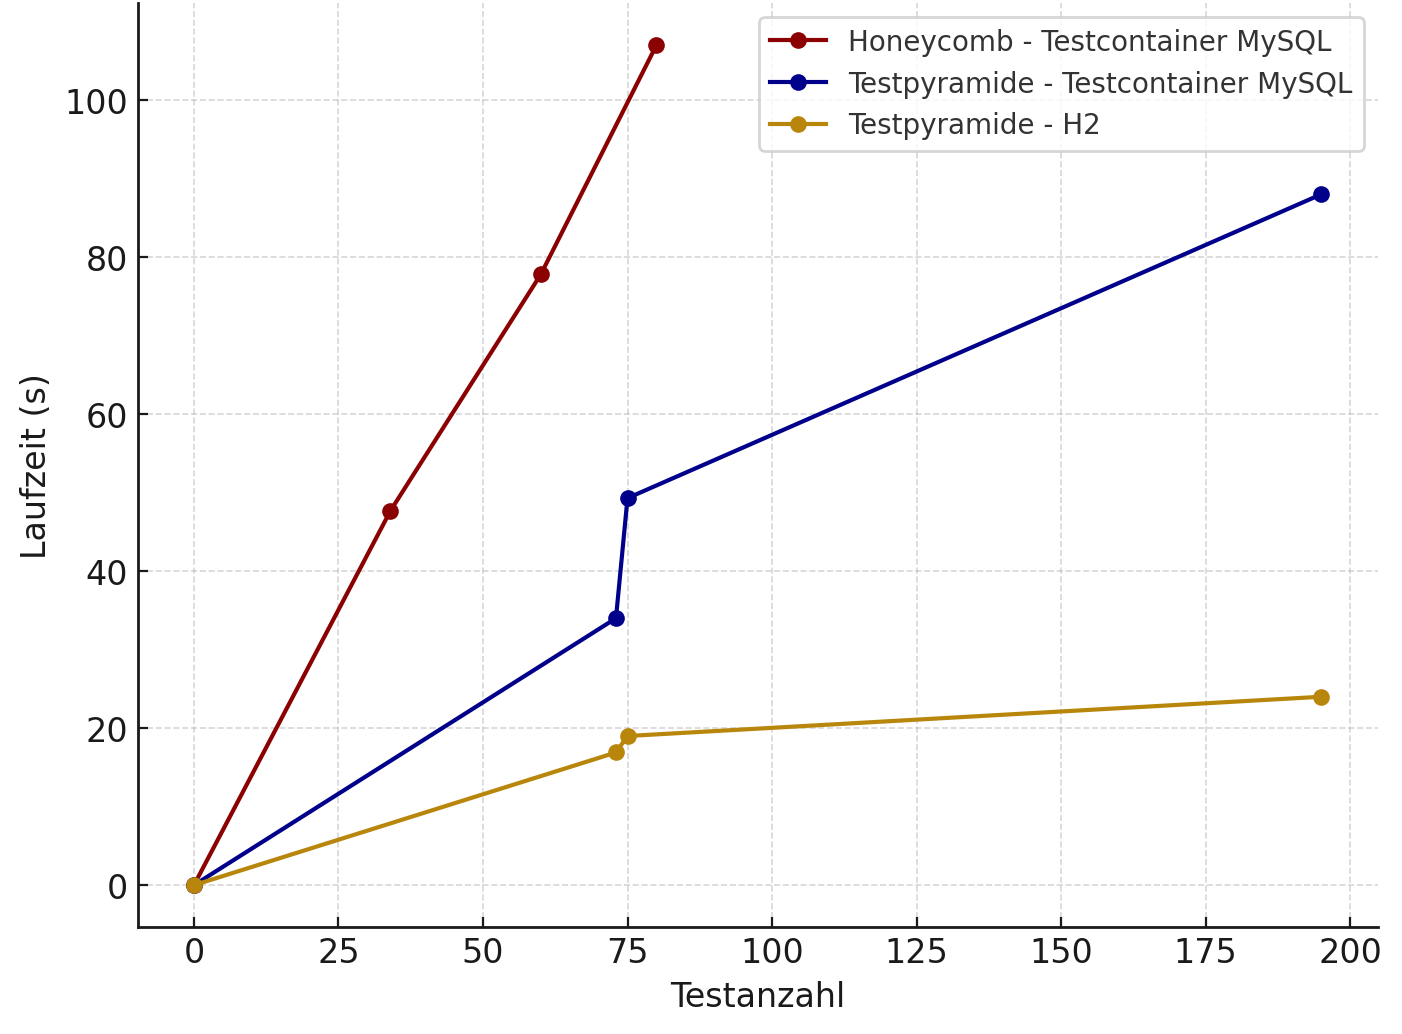
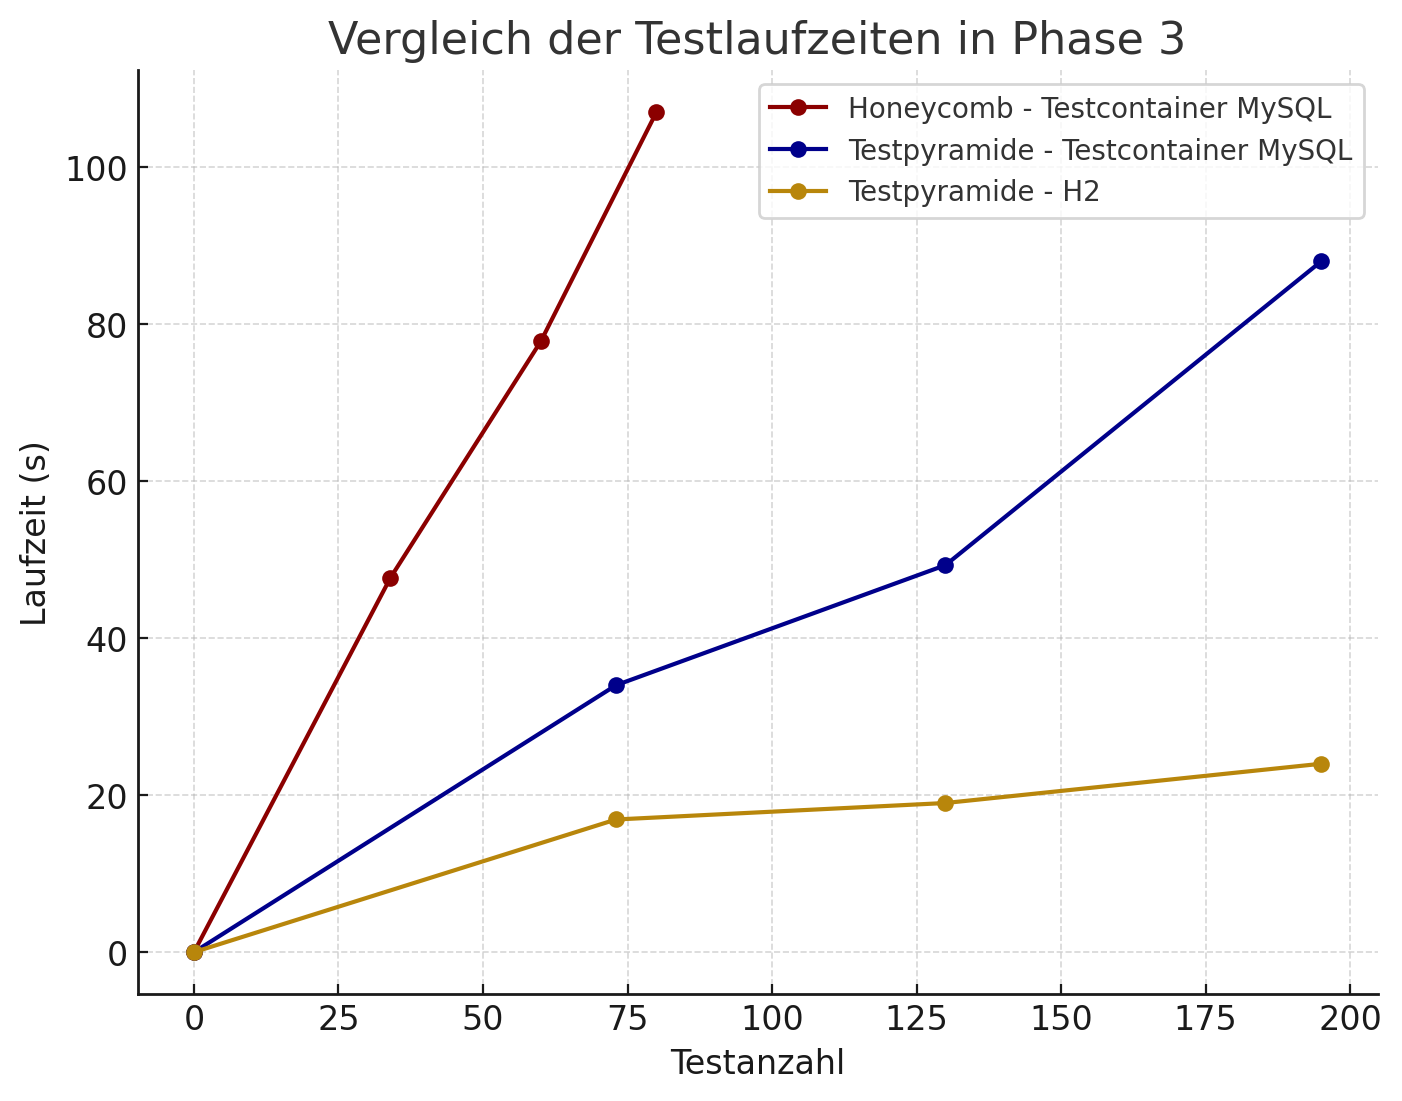
[bachelorarbeit] phase 2 und graphen

diff --git a/bachelorarbeit/ergebnis.tex b/bachelorarbeit/ergebnis.tex
@@ -1,11 +1,11 @@
 \section{Ergebnisse und Interpretation}
-Hier beginnt der Abschnitt wo die Laufzeiten zwischen den Teststrategien gemessen werden in drei Phasen wie in der Methodik beschrieben.
+Hier beginnt der Abschnitt wo die Laufzeiten zwischen den Teststrategien gemessen werden in drei Phasen wie in der Methodik beschrieben. Um eine einheitliche Darstellung der Ergebnisse zu gewährleisten, werden die Messwerte in Tabellenform präsentiert. Jede Tabelle enthält die verwendete Teststrategie, die eingesetzte Datenbank, die Anzahl der durchgeführten Tests, die Anzahl der Unit-Tests innerhalb der Testpyramide und die durchschnittliche Laufzeit über zehn Durchläufe hinweg. 
 %%%%%%%%%%%%%%%%%%%%%%%%%%%%%%%%%%%%%%%%%%%%%%%%%%%%%%%%%%%%%%%%%%%%%
 \subsection{Phase eins - Business Case-spezifische Testergebnisse}
 In dieser Phase werden die Testergebnisse für die drei zentralen Geschäftsprozesse der Anwendung untersucht: Bewerbungsprozess, Vertragsmanagement und Veranstaltungsmanagement. Diese Anwendungsfälle wurden bereits in den vorherigen Kapiteln beschrieben und bilden die Grundlage für die Untersuchung der beiden Teststrategien.
 
-Um eine einheitliche Darstellung der Ergebnisse zu gewährleisten, werden die Messwerte in Tabellenform präsentiert. Jede Tabelle enthält die verwendete Teststrategie, die eingesetzte Datenbank, die Anzahl der durchgeführten Tests, die Anzahl der Unit-Tests innerhalb der Testpyramide und die durchschnittliche Laufzeit über zehn Durchläufe hinweg. Während das Honeycomb-Modell ausschließlich Integrationstests durchführt, kombiniert die Testpyramide sowohl Unit- als auch Integrationstests, wobei je nach Konfiguration entweder die In-Memory-Datenbank H2 oder eine MySQL-Datenbank mit Testcontainers verwendet wird.
-Die folgende Tabelle zeigt die Ergebnisse für den Bewerbungsprozess.
+
+Die folgende \autoref{tab:bewerbung_updated_first} zeigt die Ergebnisse für den Bewerbungsprozess.
 \begin{table}[H]
 	\centering
 	\begin{tabular}{|l|l|l|l|l|}
@@ -62,20 +62,18 @@ Die folgende Tabelle zeigt die Ergebnisse für den Bewerbungsprozess.
 \subsubsection{Analyse der Testkomplexität und ihrer Auswirkungen}
 Die folgende Analyse betrachtet die Testergebnisse aus den Tabellen und zeigt, welche Faktoren die Testlaufzeit beeinflussen. Die Anzahl der Tests und die Laufzeit allein reichen nicht aus, um den Aufwand eines Business Cases zu bestimmen. Eine genauere Bewertung erfordert die Berücksichtigung mehrerer Aspekte, darunter die Struktur der Geschäftsprozesse, die Anzahl der Prüfungen und die Abhängigkeiten zwischen den Features.
 
-Die Testpyramide weist in \autoref{tab:bewerbung_updated_first} mit 73 Tests die höchste Testanzahl auf , was auf Statusänderungen innerhalb des Bewerbungsprozesses zurückzuführen ist. Besonders die Verwaltung von Bewerbungen, Ablehnen und Annehmen der Bewerbungen. Die Laufzeiten zeigen, dass Tests mit H2 schneller ausgeführt werden als mit Testcontainers 34 Sekunden. Das Honeycomb-Modell testet mit nur 34 Tests das gesamte System, benötigt jedoch mit 47,7 Sekunden deutlich mehr Zeit.
-Im Vertragsmanagement in \autoref{tab:vertrag_einzeln} sind weniger Tests erforderlich als im Bewerbungsprozess, dennoch sind die Laufzeiten vergleichbar. Die enge Verknüpfung mit dem Bewerbungsprozess führt zu häufigen Datenbankzugriffen und Prüfungen. Diese Funktion ist von den Ergebnissen nah an dem Bewerbungsmanagement, da aus einer angenommenen Bewerbung ein Vertrag erstellt werden kann.
-Im Veranstaltungsmanagement in \autoref{tab:eventbereich_einzeln} zeigt die Testpyramide 61 und das Honeycomb-Modell 19 Tests. Die Laufzeiten bleiben jedoch relativ hoch, was auf Datenbankoperationen und Verknüpfungen zwischen Entitäten hinweist.
+Die Testpyramide weist in \autoref{tab:bewerbung_updated_first} mit 73 Tests die höchste Testanzahl auf, was auf Statusänderungen innerhalb des Bewerbungsprozesses zurückzuführen ist. Besonders die Verwaltung von Bewerbungen und das Ablehnen oder Annehmen der Bewerbungen. Die Laufzeiten zeigen, dass Tests mit H2 schneller ausgeführt werden als mit Testcontainers mit 34 Sekunden. Das Honeycomb-Modell testet mit nur 34 Tests das gesamte System, benötigt jedoch mit 47,7 Sekunden deutlich mehr Zeit.
+Im Vertragsmanagement in \autoref{tab:vertrag_einzeln} sind etwas weniger Tests erforderlich als im Bewerbungsprozess, dennoch sind die Laufzeiten vergleichbar. Die enge Verknüpfung mit dem Bewerbungsprozess führt zu häufigen Datenbankzugriffen und Prüfungen. Diese Funktion ist von den Ergebnissen nah an dem Bewerbungsmanagement, da aus einer angenommenen Bewerbung ein Vertrag erstellt werden kann.
+Im Veranstaltungsmanagement in \autoref{tab:eventbereich_einzeln} führt die Testpyramide 61 und das Honeycomb-Modell 19 Tests durch. Die Laufzeiten bleiben jedoch relativ hoch, was auf Datenbankoperationen und Verknüpfungen zwischen Entitäten hinweist.
 
 Auffällig ist, dass die Anzahl der Unit-Tests innerhalb der Testpyramide vergleichsweise gering ist. Dies könnte darauf zurückzuführen sein, dass die Geschäftslogik der betrachteten Anwendungsfälle nicht besonders umfangreich ist und weniger verschiedene Prüfungen benötigt. Die Funktionalität ist klar definiert und enthält keine komplexen Abhängigkeiten, wodurch auch der Bedarf an zusätzlichen Tests geringer ausfällt.
-
-Die Wahl der Teststrategie bestimmt, welche Aspekte eines Business Cases stärker sichtbar werden. Die Testpyramide ermöglicht eine detaillierte Überprüfung einzelner Geschäftsregeln durch isolierte Tests. Das Honeycomb-Modell hingegen deckt Abhängigkeiten zwischen den Prozessen auf und zeigt, welche Bereiche besonders lange Laufzeiten verursachen.
 
 Die kommenden Abschnitte untersuchen, wie sich diese Unterschiede mit wachsender Funktionalität weiterentwickeln.
 
 
 %%%%%%%%%%%%%%%%%%%%%%%%%%%%%%%%%%%%%%%%%%%%%%%%%%%%%%%%%%%%%%%%%%%%%
 \subsection{Phase zwei – Erste Implementierung und Teststrategie ohne Authentifizierung}
-In dieser Phase werden die Testergebnisse vor der Integration von Spring Security analysiert. Sie dienen als Grundlage, um später die Auswirkungen der Authentifizierung auf die Teststrategien zu vergleichen. Die Tests wurden schrittweise erweitert und angepasst, wodurch eine stabile Testbasis entstand. Die Ergebnisse sind in Tabellen dargestellt, die wie in Phase eins die Teststrategie, die eingesetzte Datenbank, die Anzahl der Tests, die Anzahl der Unit-Tests innerhalb der Testpyramide und die durchschnittliche Laufzeit über zehn Durchläufe hinweg enthalten. Diese Tabellen zeigen, wie sich die Testlaufzeiten und die Anzahl der Tests in Abhängigkeit von der Teststrategie und der Datenbank verhalten. Im Fazit dieser Phase werden die Ergebnisse ausgewertet und mit den Messungen nach der Security-Integration verglichen.
+  Die Ergebnisse sind in Tabellen dargestellt, die wie in Phase eins die Teststrategie, die eingesetzte Datenbank, die Anzahl der Tests, die Anzahl der Unit-Tests innerhalb der Testpyramide und die durchschnittliche Laufzeit über zehn Durchläufe hinweg enthalten. Diese Tabellen zeigen, wie sich die Testlaufzeiten und die Anzahl der Tests in Abhängigkeit von der Teststrategie und der Datenbank verhalten. Im Fazit dieser Phase werden die Ergebnisse ausgewertet und mit den Messungen nach der Security-Integration verglichen.
 
 
 \begin{table}[H]
@@ -131,12 +129,12 @@ In dieser Phase werden die Testergebnisse vor der Integration von Spring Securit
 		\label{tab:eventmanagement}
 \end{table}
 \subsubsection{Fazit zur zweiten Phase}
-Die zweite Testphase zeigt Veränderungen in der Teststruktur und Performance im Verlauf der Feature-Entwicklung. Mit jedem neu hinzugefügten Feature stieg die Anzahl der Tests sowie die Laufzeit der Testausführungen. Besonders beim \textbf{Vertragsmanagement} zeigte sich eine enge Abhängigkeit zum Bewerbungsprozess, da Verträge erst aus bestehenden Bewerbungen generiert werden können. Dies führte zu einer erhöhten Anzahl an Datenbankabfragen und verlängerte die Testlaufzeiten, insbesondere bei der Nutzung des Honeycomb-Modells.
+Die \autoref{fig:phase-zwei} zeigt Veränderungen in der Teststruktur und Performance im Verlauf der Feature-Entwicklung. Mit jedem neu hinzugefügten Feature stieg die Anzahl der Tests sowie die Laufzeit der Testausführungen. Besonders beim \textbf{Vertragsmanagement} zeigte sich eine enge Abhängigkeit zum Bewerbungsprozess, da Verträge erst aus bestehenden Bewerbungen generiert werden können. Dies führte zu einer erhöhten Anzahl an Datenbankabfragen und verlängerte die Testlaufzeiten, insbesondere bei der Nutzung des Honeycomb-Modells.
 
 
 \begin{figure}[H]
 	\centering
-	\includegraphics[width=0.8\textwidth]{fig/phase-zwei.png}
+	\includegraphics[width=0.8\textwidth]{fig/phase-zweii.png}
 	\caption{Vergleich der Testlaufzeiten in Phase zwei}
 	\label{fig:phase-zwei}
 \end{figure}
@@ -164,9 +162,9 @@ Da in Phase eins die einzelnen Businessfälle bereits vollständig implementiert
 		\hline
 		Honeycomb       & Testcontainer MySQL & 60  & --  & 77\,s 777\,ms   \\
 		\hline
-		Testpyramide    & Testcontainer MySQL & 75  & 25  & 49\,s 333\,ms    \\
+		Testpyramide    & Testcontainer MySQL & 130  & 55  & 49\,s 333\,ms    \\
 		\hline
-		Testpyramide    & H2                  & 75  & 25  & 19\,s \\
+		Testpyramide    & H2                  & 130  & 55  & 19\,s \\
 		\hline
 	\end{tabular}
 	\caption{Phase drei - Bewerbungs- und Vertragsmanagement}
@@ -213,7 +211,7 @@ Wie bereits in Phase 2 beobachtet, bleibt H2 die schnellere Lösung mit nur leic
 
 \begin{figure}[H]
 	\centering
-	\includegraphics[width=0.8\textwidth]{fig/phase-drei.png}
+	\includegraphics[width=0.8\textwidth]{fig/phase-dreii.png}
 	\caption{Vergleich der Testlaufzeiten in Phase drei}
 	\label{fig:phase-drei}
 \end{figure}

diff --git a/bachelorarbeit/methodik.tex b/bachelorarbeit/methodik.tex
@@ -24,18 +24,25 @@ Für das Mutationstesting wird \texttt{PITest} verwendet. \texttt{Parallel Isola
 Die Wahl der Teststrategie basiert auf den Anforderungen der Webanwendung Venow, die als Fallstudie dient. Durch den Einsatz von H2 und Testcontainers werden die zuvor beschriebenen Testansätze praktisch erprobt, um die Systemfunktionen wie den Bewerbungsprozess, die Vertragsverwaltung und der Veranstaltungsverwaltung umfassend zu validieren.
 
 
+
 \subsection{Untersuchung der Teststrategien in drei Phasen}
-Die durchgeführten Testmessungen lassen sich in drei Phasen unterteilen, die verschiedene Aspekte der Teststrategien beleuchten. In der \textbf{ersten Phase }erfolgte eine getrennte Analyse der Anwendungsfälle Bewerbungsprozess, Vertragsmanagement und Veranstaltungsmanagement, um die spezifischen Auswirkungen der beiden Strategien zu untersuchen. Alle Anwendungsfälle waren zu diesem Zeitpunkt vollständig implementiert.
+\begin{figure}[H]
+	\centering
+	\includegraphics[width=0.35\textwidth]{fig/drei-phasen.jpg}
+	\caption{Übersicht der drei Phasen}
+	\label{fig:drei-phasen}
+\end{figure}
+Wie in \autoref{fig:drei-phasen} lassen sich die durchgeführten Testmessungen in drei Phasen unterteilen, die verschiedene Aspekte der Teststrategien beleuchten. In der \textbf{ersten Phase }erfolgte eine getrennte Analyse der Anwendungsfälle Bewerbungsprozess, Vertragsmanagement und Veranstaltungsmanagement, um die spezifischen Auswirkungen der beiden Strategien zu untersuchen. Alle Anwendungsfälle waren vollständig implementiert, da die Tests erst nach Abschluss der gesamten Entwicklung durchgeführt wurden.
 
 Für jede Testkonfiguration wurden zehn Durchläufe durchgeführt, aus denen die durchschnittliche Laufzeit und die Anzahl der ausgeführten Tests ermittelt wurden. Die Tests liefen mit Gradle unter Java 21 auf einem System mit 16 GB RAM, einem AMD Ryzen 5 5600H und einer 512 GB NVMe SSD unter Windows. Um möglichst präzise Laufzeitergebnisse zu erhalten, wurden während der Testdurchläufe keine weiteren Programme ausgeführt.
 
 Neben der Testlaufzeit wurde analysiert, inwiefern sich die Anzahl der Tests zwischen den Strategien unterscheidet und welchen Einfluss dies auf die Testergebnisse hat. Ein besonderer Fokus lag dabei auf der Frage, ob das Honeycomb-Modell durch seine ausschließlich realitätsnahen Tests präzisere, aber potenziell langsamere Testergebnisse liefert und ob die Testpyramide durch die Kombination aus schnellen Unit-Tests und gezielten Integrationstests eine effizientere Alternative darstellt. Zusätzlich wurde der Einfluss von TDD untersucht, insbesondere hinsichtlich der Auswirkungen auf die Testqualität und die Struktur der entwickelten Tests.
 
-In der \textbf{zweiten Phase }wurde die Entwicklung der Testkennzahlen über den gesamten Implementierungsprozess hinweg betrachtet. Zunächst wurde der Bewerbungsprozess vollständig entwickelt, getestet und gemessen, bevor das Vertragsmanagement als nächstes Feature hinzugefügt wurde. Nach Abschluss der Tests folgte schließlich die Integration und Messung des Veranstaltungsmanagements. Durch diese schrittweise Erweiterung konnte untersucht werden, wie sich die steigende Komplexität der Anwendung und die zunehmenden Abhängigkeiten zwischen den Features auf die Testperformance auswirkten. Die Analyse betrachtete nicht nur die einzelnen Features, sondern auch deren Effekt auf die gesamte Teststrategie im Verlauf der Entwicklung.
+In der \textbf{zweiten Phase} wurde die Entwicklung der Testkennzahlen über den gesamten Implementierungsprozess hinweg betrachtet. Zunächst wurde der Bewerbungsprozess vollständig entwickelt, getestet und gemessen, bevor das Vertragsmanagement als nächstes Feature hinzugefügt wurde. Dies wurde vor der Integration von Spring Security analysiert Sie dienen als Grundlage, um später die Auswirkungen der Authentifizierung auf die Teststrategien zu vergleichen. Nach Abschluss der Tests folgte schließlich die Integration und Messung des Veranstaltungsmanagements. Durch diese schrittweise Erweiterung konnte untersucht werden, wie sich die steigende Komplexität der Anwendung und die zunehmenden Abhängigkeiten zwischen den Features auf die Testperformance auswirkten. Die Analyse betrachtete nicht nur die einzelnen Features, sondern auch deren Effekt auf die gesamte Teststrategie im Verlauf der Entwicklung.
 
 In der \textbf{dritten Phase} wurden zusätzliche Tests ergänzt, die aus Fehleranalysen während der Frontend-Entwicklung resultierten. Diese Tests deckten Randfälle ab und erweiterten die Gesamtabdeckung der Anwendung. Darüber hinaus wurde Spring Security implementiert, wodurch die Authentifizierungs- und Autorisierungsszenarien in die Tests aufgenommen wurden. Die Messungen wurden unter denselben Rahmenbedingungen wie in Phase zwei durchgeführt, um die Ergebnisse vergleichbar zu halten.
 
-Am Ende jeder Phase werden die wichtigsten Erkenntnisse zusammengefasst und die Auswirkungen der Teststrategien bewertet.
+Am Ende jeder Phase werden die wichtigsten Erkenntnisse zusammengefasst und die Auswirkungen der Teststrategien bewertet. Dabei fließen nicht nur die Testergebnisse selbst ein, sondern auch praktische Erfahrungen, etwa wie sich die Teststrategien beim Debuggen, beim Hinzufügen neuer Attribute oder bei Änderungen am Code ausgewirkt haben.
 
 \subsection{Tests für spezifische Anwendungsfälle}
 
